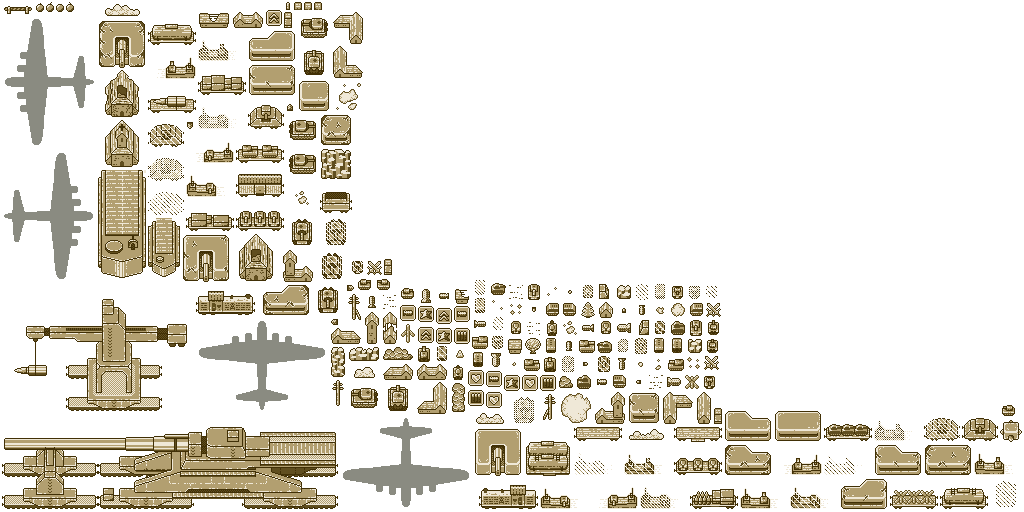
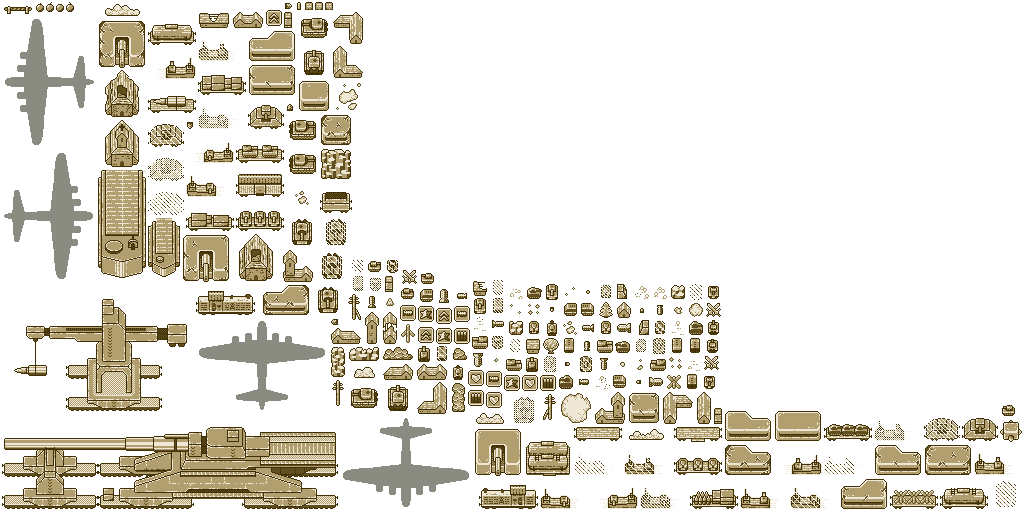
RT-0.18.35 - Mud rebuilded.

Changed region(s): [[0.3438, 0.5, 0.7188, 0.7812], [0.2812, 0.0, 0.3438, 0.0312]]

diff --git a/core/src/remove/tanks/game/GameApplication.java b/core/src/remove/tanks/game/GameApplication.java
@@ -21,7 +21,7 @@ import java.util.HashSet;
 
 public final class GameApplication extends Game {
 	public static final String TITLE = "Remove Tanks!";
-	public static final String VERSION = "0.18.34";
+	public static final String VERSION = "0.18.35";
 
 	private final Configuration configuration;
 
